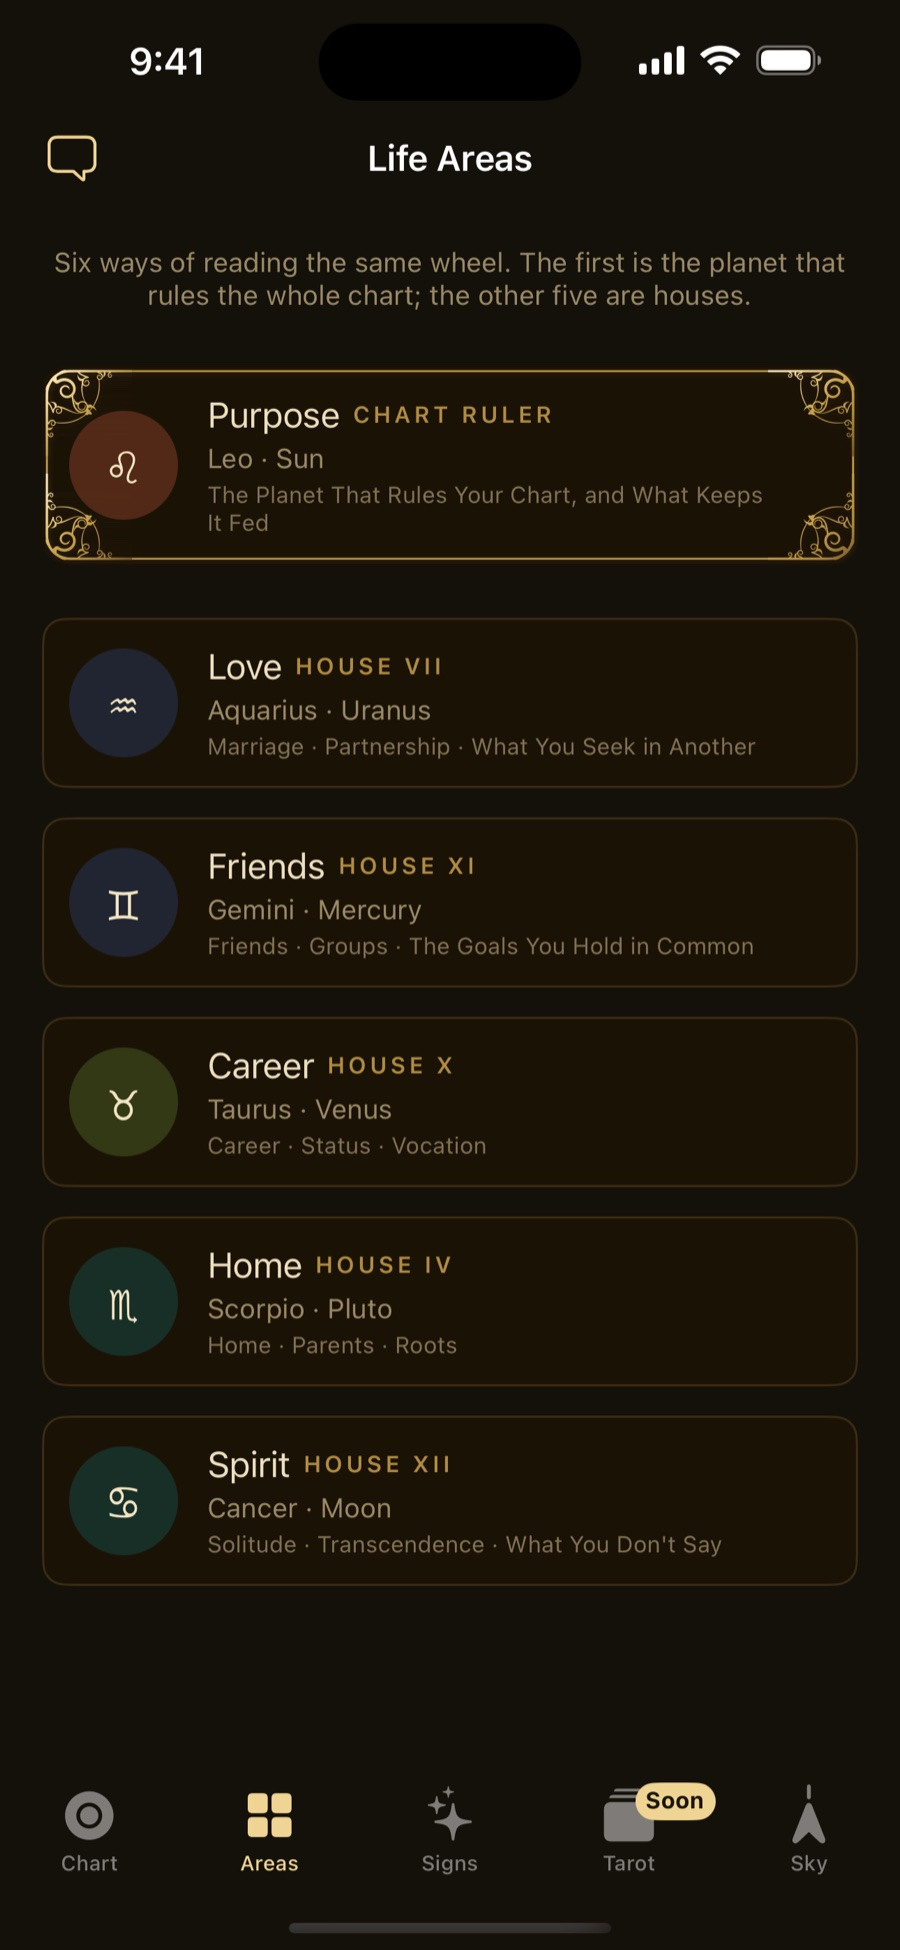
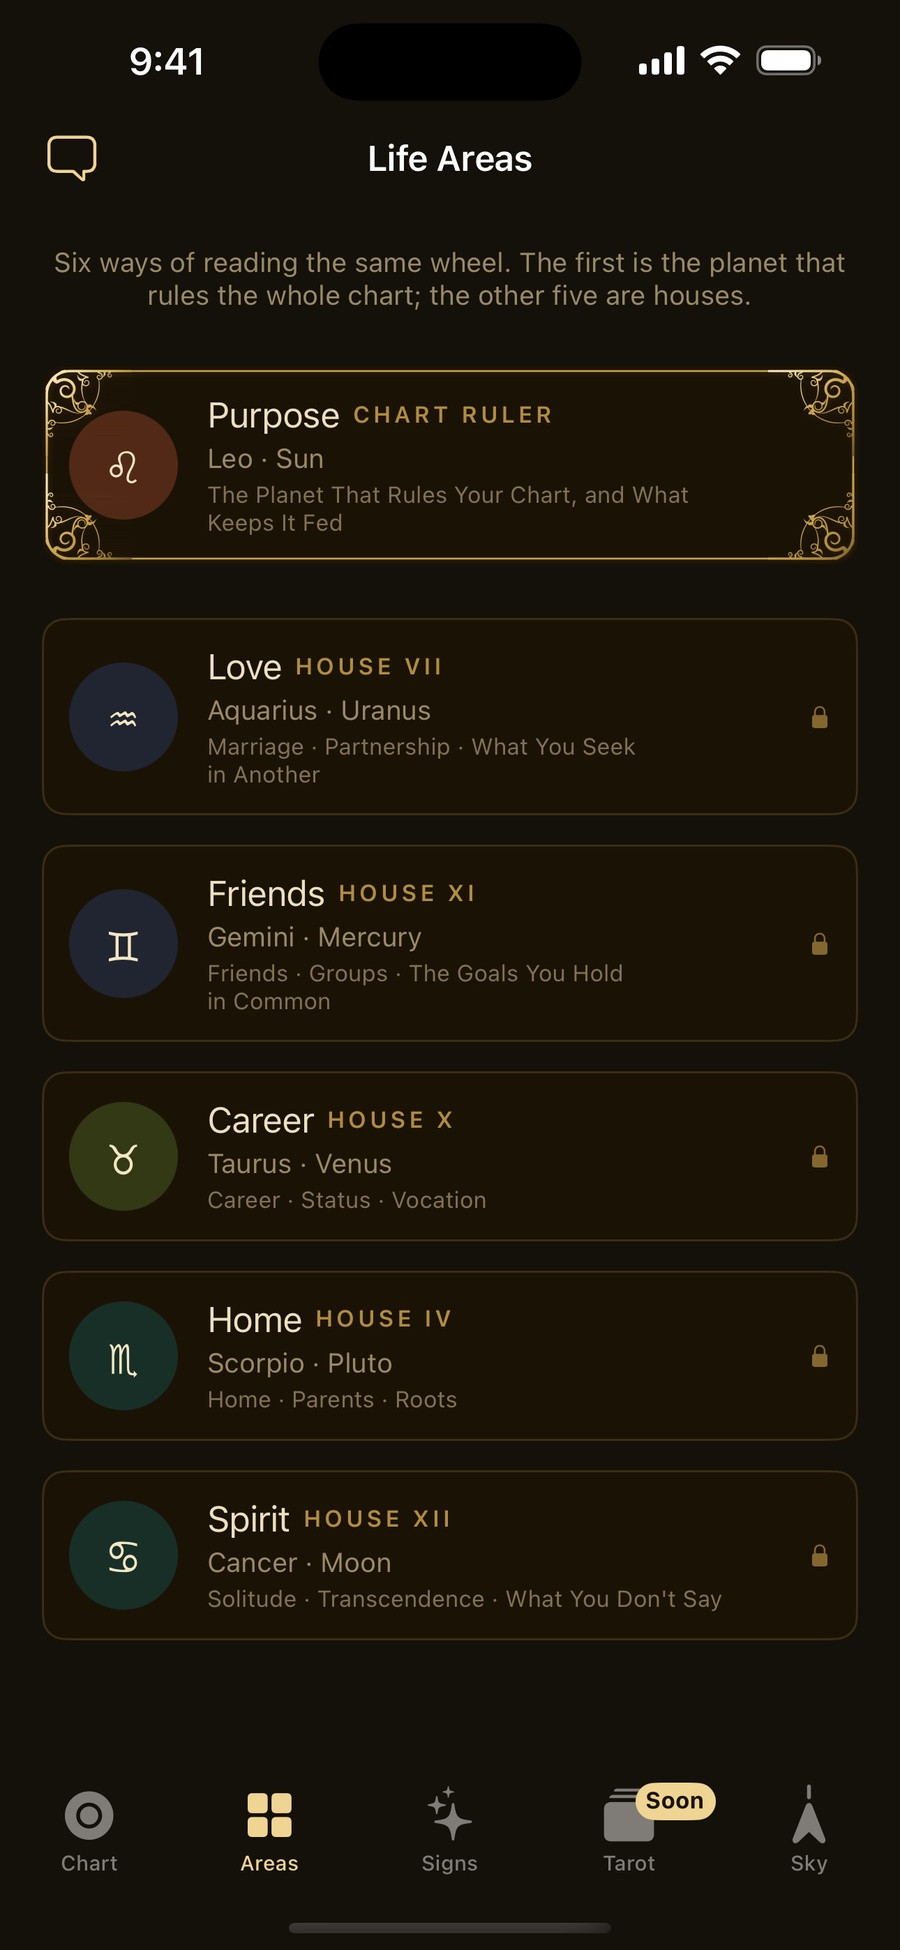
Show Life Areas locked, the way a signed-out visitor sees it
The Life Areas shot dated from Sep 1 and was taken while subscribed, so
it showed no padlocks. Anyone reaching the page without a subscription
sees five of the six areas locked, with only Purpose open. Retaken
signed out, and the alt text now says so.

Whole Chart and Black Moon Lilith are the same screens as before,
retaken from the same build at q95 to match the rest of the set. Both
had been saved at a lower quality.

All three were captured on an iPhone 16 Plus from adbe07c with Debug
Unlock off, using the Alex Rivera demo profile and the 9:41 status bar.

diff --git a/index.html b/index.html
@@ -379,7 +379,7 @@
       <p>Five are houses, read from your own rising sign, never the generic wheel. The sixth, Purpose, is different: it's the planet ruling your whole chart, not a sector of it — and usually the first reading to change if your birth time is off by a few minutes.</p>
       <p>Most horoscopes default to your sun sign. This app centers your rising sign instead, on purpose — it's what actually sets your chart ruler. If the sign on your wheel isn't the one you expected, that's not a mistake. It's the more personal one.</p>
     </div>
-    <div class="shot"><img src="assets/screenshots/03-life-areas.jpg" alt="The Life Areas hub, showing all six areas — Love, Friends, Career, Home, Spirit, and Purpose — each with its ruling sign and planet" loading="lazy"></div>
+    <div class="shot"><img src="assets/screenshots/03-life-areas.jpg" alt="The Life Areas hub, showing all six areas — Purpose, Love, Friends, Career, Home, and Spirit — each with its ruling sign and planet, and a padlock on the five that open with a subscription" loading="lazy"></div>
   </div>
 </section>
 
